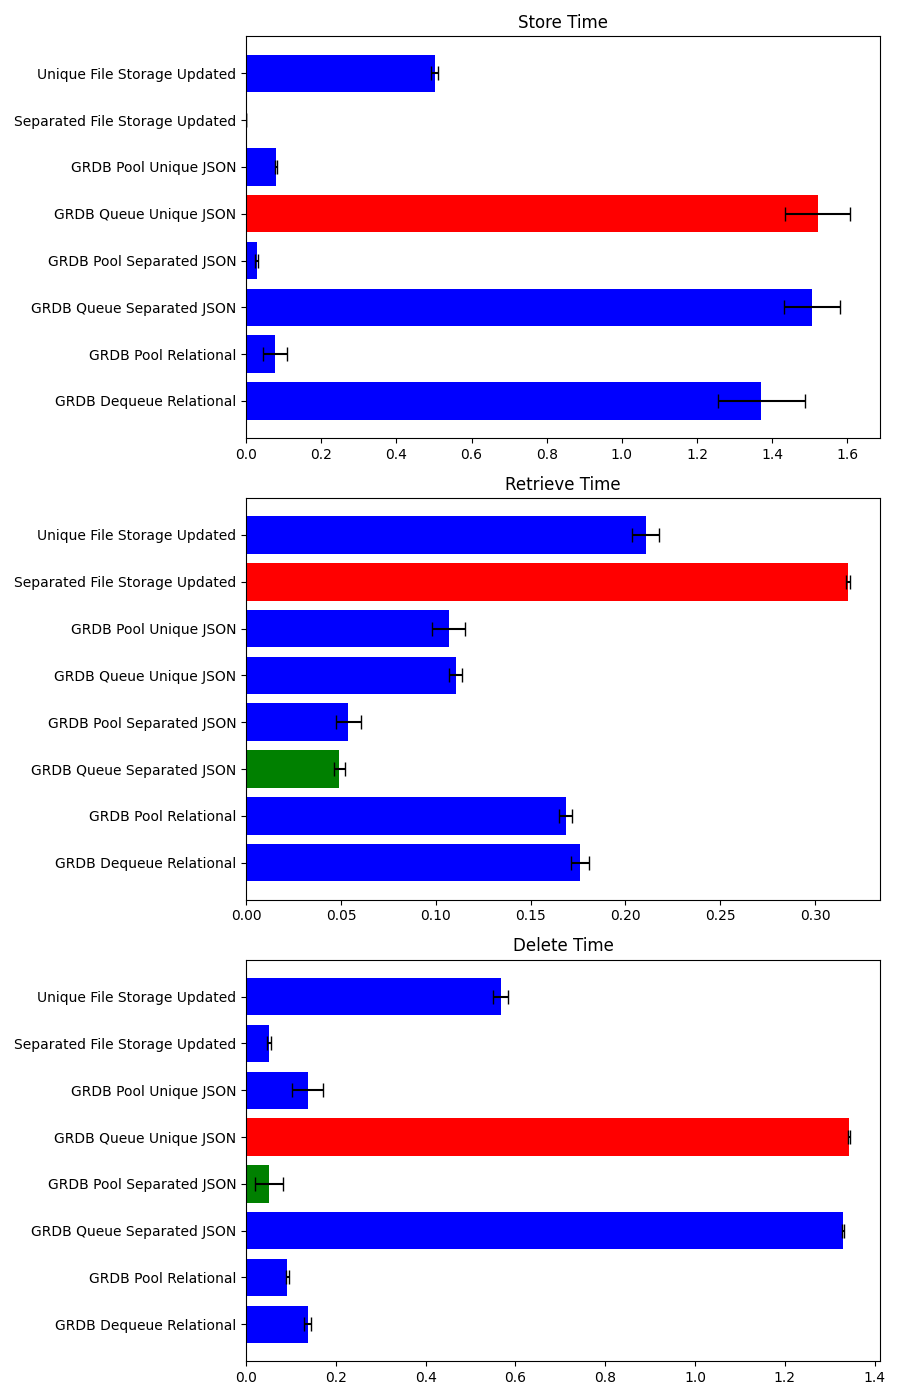
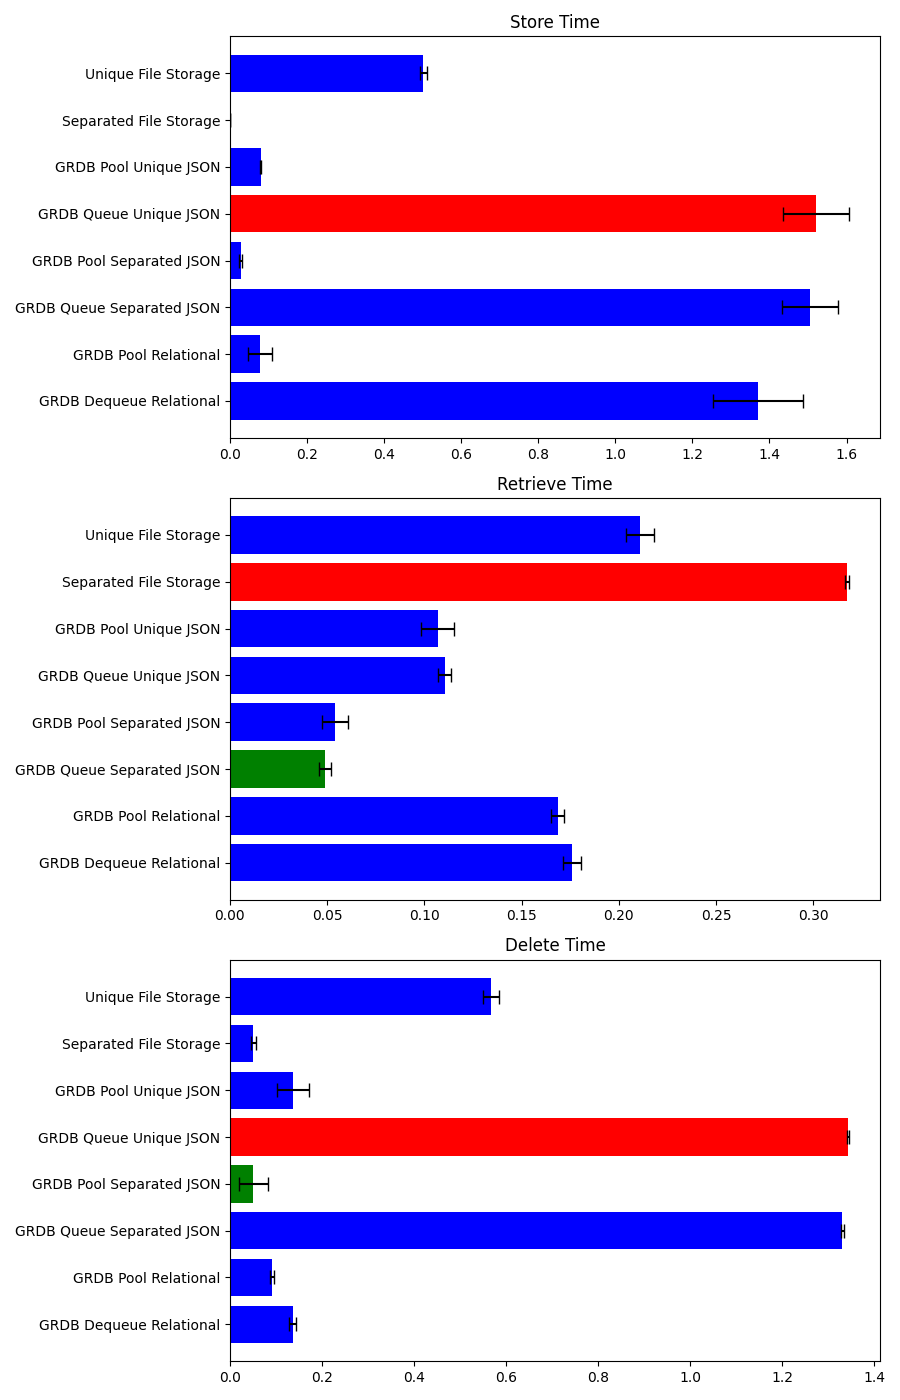
Update labels on benchmark image

diff --git a/2024/02/09/apple_tv_hd_chart_generator.py b/2024/02/09/apple_tv_hd_chart_generator.py
@@ -10,8 +10,8 @@ new_data_avg = {
     'GRDB Pool Separated JSON': [0.02789628505706787, 0.0538195013999939, 0.05096428394317627],
     'GRDB Queue Unique JSON': [1.5210529923439027, 0.11044330596923828, 1.3433026790618896],
     'GRDB Pool Unique JSON': [0.07977900505065919, 0.10678452253341675, 0.13733960390090943],
-    'Separated File Storage Updated': [0.0006147980690002442, 0.31745860576629636, 0.051162219047546385],
-    'Unique File Storage Updated': [0.5016327977180481, 0.21079367399215698, 0.567218005657196]
+    'Separated File Storage': [0.0006147980690002442, 0.31745860576629636, 0.051162219047546385],
+    'Unique File Storage': [0.5016327977180481, 0.21079367399215698, 0.567218005657196]
 }
 
 # Standard Deviations
@@ -22,11 +22,10 @@ new_data_std = {
     'GRDB Pool Separated JSON': [0.003234126856896667, 0.0066789205800950055, 0.03154474439163905],
     'GRDB Queue Unique JSON': [0.0862286481463726, 0.003460897881870525, 0.002220265749593013],
     'GRDB Pool Unique JSON': [0.002192744778779806, 0.008535974752791522, 0.03450071034607358],
-    'Separated File Storage Updated': [5.129028827946028e-05, 0.0010110711248106138, 0.0045830708822261045],
-    'Unique File Storage Updated': [0.008545808634085552, 0.0071058529225063345, 0.01701832527340012]
+    'Separated File Storage': [5.129028827946028e-05, 0.0010110711248106138, 0.0045830708822261045],
+    'Unique File Storage': [0.008545808634085552, 0.0071058529225063345, 0.01701832527340012]
 }
 
-# Plotting the updated results
 fig, axs = plt.subplots(3, 1, figsize=(9, 14))
 
 plt.rcParams['font.family'] = 'DejaVu Sans'
